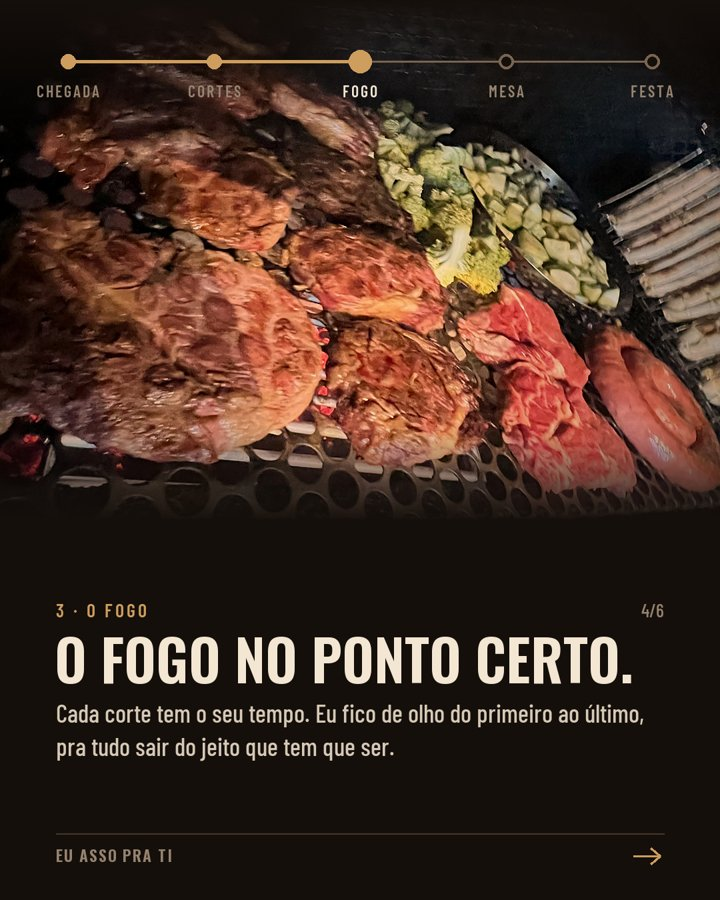
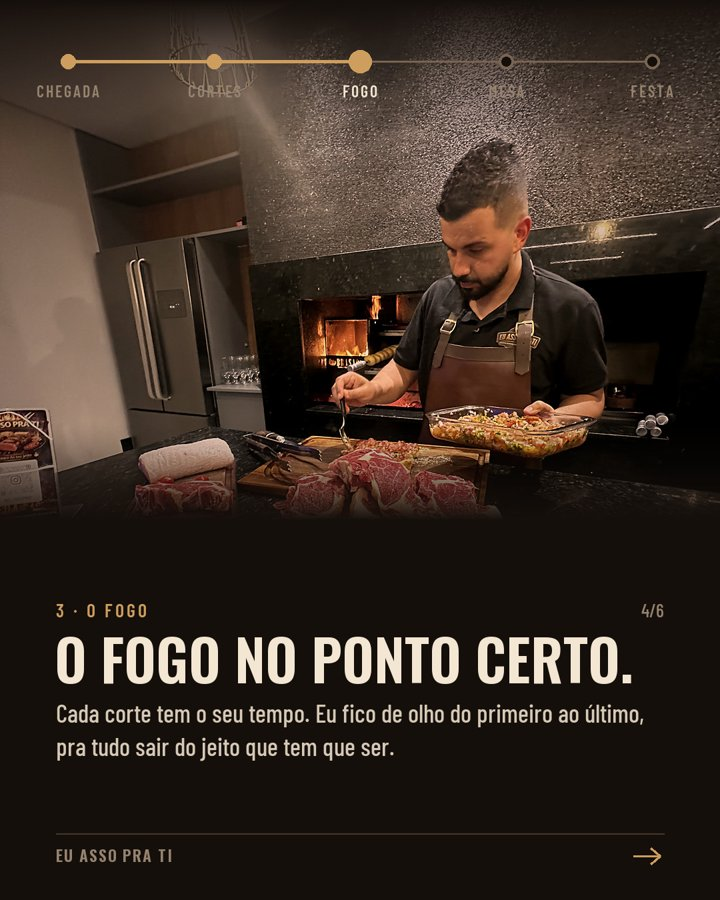
Semana de 3/11: troca da foto do fogo e matambrito no lugar da linguiça

diff --git a/calendario/index.html b/calendario/index.html
@@ -11,7 +11,7 @@
 --display:"Oswald","Arial Narrow",sans-serif;--label:"Barlow Condensed","Arial Narrow",sans-serif;--text:"Barlow",system-ui,sans-serif;color-scheme:dark}
 *{box-sizing:border-box}
 body{margin:0;background:var(--bg);color:var(--body);font:400 1.0625rem/1.6 var(--text)}
-.hero{position:relative;min-height:min(78vh,620px);display:grid;align-items:end;background:#000 url(img/p14-01.jpg?v=1793399696) center 40%/cover}
+.hero{position:relative;min-height:min(78vh,620px);display:grid;align-items:end;background:#000 url(img/p14-01.jpg?v=1793402026) center 40%/cover}
 .hero::after{content:"";position:absolute;inset:0;background:linear-gradient(180deg,rgba(21,15,11,.2) 0%,rgba(21,15,11,.55) 45%,var(--bg) 100%)}
 .hero .in{position:relative;z-index:1;max-width:760px;margin:0 auto;width:100%;padding:0 20px 36px}
 h1,h2{font-family:var(--display);font-weight:600;text-transform:uppercase;color:var(--fg);line-height:1.05;margin:0;text-wrap:balance}
@@ -79,7 +79,7 @@ footer{font:500 .9rem var(--label);color:var(--muted);letter-spacing:.06em;borde
   <ul class="dl">
     <li><b>Até segunda</b><span>Pitacos dos três posts, todos juntos numa mensagem.</span></li>
     <li><b>Post 13</b><span>Teu ok pra usar os comentários dos clientes (são públicos, mas é bom tu conferir se alguém se importaria).</span></li>
-    <li><b>Post 15</b><span>Conferir se os cortes estão com o nome certo nas fotos (ancho, costela e linguiça) e se tu trocaria algum.</span></li>
+    <li><b>Post 15</b><span>Conferir se os cortes estão com o nome certo nas fotos (ancho, costela e matambrito) e se tu trocaria algum.</span></li>
   </ul>
 </section>
 
@@ -88,12 +88,12 @@ footer{font:500 .9rem var(--label);color:var(--muted);letter-spacing:.06em;borde
   <h2>Post 13: quem provou, recomenda</h2>
   <p>Prova social no dia em que os anúncios começam. Os comentários reais da galera, no visual do Instagram: a formatura, o aniversário de 1 ano do último sábado e quem provou o choripan de focaccia. Fecha contigo sorrindo e chamando pro WhatsApp.</p>
   <div class="car" aria-label="Imagens do post 13">
-    <img src="img/p13-01.jpg?v=1793399696" alt="Capa: Quem provou, recomenda" loading="lazy">
-    <img src="img/p13-02.jpg?v=1793399696" alt="Formatura" loading="lazy">
-    <img src="img/p13-03.jpg?v=1793399696" alt="Aniversário de 1 ano" loading="lazy">
-    <img src="img/p13-04.jpg?v=1793399696" alt="A queridinha" loading="lazy">
-    <img src="img/p13-05.jpg?v=1793399696" alt="Sem palavras" loading="lazy">
-    <img src="img/p13-06.jpg?v=1793399696" alt="A próxima pode ser a tua" loading="lazy">
+    <img src="img/p13-01.jpg?v=1793402026" alt="Capa: Quem provou, recomenda" loading="lazy">
+    <img src="img/p13-02.jpg?v=1793402026" alt="Formatura" loading="lazy">
+    <img src="img/p13-03.jpg?v=1793402026" alt="Aniversário de 1 ano" loading="lazy">
+    <img src="img/p13-04.jpg?v=1793402026" alt="A queridinha" loading="lazy">
+    <img src="img/p13-05.jpg?v=1793402026" alt="Sem palavras" loading="lazy">
+    <img src="img/p13-06.jpg?v=1793402026" alt="A próxima pode ser a tua" loading="lazy">
   </div>
   <p class="hint">Arrasta para o lado para ver as 6 imagens.</p>
   <details><summary>Ver a legenda</summary><div class="cap">Quem provou, recomenda 🔥
@@ -118,12 +118,12 @@ Tem festa vindo aí? Me chama no WhatsApp pelo link da bio ou no (51) 99565-7817
   <h2>Post 14: como é o dia da tua festa</h2>
   <p>O passo a passo do dia, com uma linha do tempo no topo de cada card: tu chega antes, os cortes separados e temperados, o fogo, a carne servida quentinha na mesa e o cliente só aproveitando. Responde a dúvida de quem nunca contratou: "vai dar trabalho pra mim?".</p>
   <div class="car" aria-label="Imagens do post 14">
-    <img src="img/p14-01.jpg?v=1793399696" alt="Capa: Como é o dia da tua festa" loading="lazy">
-    <img src="img/p14-02.jpg?v=1793399696" alt="Eu chego antes" loading="lazy">
-    <img src="img/p14-03.jpg?v=1793399696" alt="Separados e temperados na hora" loading="lazy">
-    <img src="img/p14-04.jpg?v=1793399696" alt="O fogo no ponto certo" loading="lazy">
-    <img src="img/p14-05.jpg?v=1793399696" alt="Servido quentinho pra galera" loading="lazy">
-    <img src="img/p14-06.jpg?v=1793399696" alt="Tu só aproveita a festa" loading="lazy">
+    <img src="img/p14-01.jpg?v=1793402026" alt="Capa: Como é o dia da tua festa" loading="lazy">
+    <img src="img/p14-02.jpg?v=1793402026" alt="Eu chego antes" loading="lazy">
+    <img src="img/p14-03.jpg?v=1793402026" alt="Separados e temperados na hora" loading="lazy">
+    <img src="img/p14-04.jpg?v=1793402026" alt="O fogo no ponto certo" loading="lazy">
+    <img src="img/p14-05.jpg?v=1793402026" alt="Servido quentinho pra galera" loading="lazy">
+    <img src="img/p14-06.jpg?v=1793402026" alt="Tu só aproveita a festa" loading="lazy">
   </div>
   <p class="hint">Arrasta para o lado para ver as 6 imagens.</p>
   <details><summary>Ver a legenda</summary><div class="cap">Como é o dia da tua festa com o Eu Asso pra Ti? 🔥
@@ -150,11 +150,11 @@ Me chama no WhatsApp pelo link da bio ou no (51) 99565-7817 e me conta como tu i
   <h2>Post 15: qual corte não pode faltar?</h2>
   <p>Enquete pra galera comentar, no mesmo formato do post do sal, que foi o que mais deu conversa até agora. Três opções com número gigante, e a galera vota comentando 1, 2 ou 3.</p>
   <div class="car" aria-label="Imagens do post 15">
-    <img src="img/p15-01.jpg?v=1793399696" alt="Capa: Qual corte não pode faltar?" loading="lazy">
-    <img src="img/p15-02.jpg?v=1793399696" alt="Ancho" loading="lazy">
-    <img src="img/p15-03.jpg?v=1793399696" alt="Costela" loading="lazy">
-    <img src="img/p15-04.jpg?v=1793399696" alt="Linguiça" loading="lazy">
-    <img src="img/p15-05.jpg?v=1793399696" alt="Conta nos comentários" loading="lazy">
+    <img src="img/p15-01.jpg?v=1793402026" alt="Capa: Qual corte não pode faltar?" loading="lazy">
+    <img src="img/p15-02.jpg?v=1793402026" alt="Ancho" loading="lazy">
+    <img src="img/p15-03.jpg?v=1793402026" alt="Costela" loading="lazy">
+    <img src="img/p15-04.jpg?v=1793402026" alt="Matambrito" loading="lazy">
+    <img src="img/p15-05.jpg?v=1793402026" alt="Comenta o número do teu time" loading="lazy">
   </div>
   <p class="hint">Arrasta para o lado para ver as 5 imagens.</p>
   <details><summary>Ver a legenda</summary><div class="cap">Qual corte não pode faltar na tua festa? 🔥
@@ -163,7 +163,7 @@ Vota aqui nos comentários com o número do teu time:
 
 1⃣ Ancho, macio e bem marmorizado
 2⃣ Costela, soltando do osso
-3⃣ Linguiça, a clássica que acaba primeiro
+3⃣ Matambrito, fininho e suculento, pra quem gosta de provar coisa nova
 
 Ou tem outro corte que tu não abre mão? Quero ver qual time ganha! 👇
 

diff --git a/semana/index.html b/semana/index.html
@@ -11,7 +11,7 @@
 --display:"Oswald","Arial Narrow",sans-serif;--label:"Barlow Condensed","Arial Narrow",sans-serif;--text:"Barlow",system-ui,sans-serif;color-scheme:dark}
 *{box-sizing:border-box}
 body{margin:0;background:var(--bg);color:var(--body);font:400 1.0625rem/1.6 var(--text)}
-.hero{position:relative;min-height:min(78vh,620px);display:grid;align-items:end;background:#000 url(img/p5-02.jpg?v=1793399696) center 40%/cover}
+.hero{position:relative;min-height:min(78vh,620px);display:grid;align-items:end;background:#000 url(img/p5-02.jpg?v=1793402026) center 40%/cover}
 .hero::after{content:"";position:absolute;inset:0;background:linear-gradient(180deg,rgba(21,15,11,.2) 0%,rgba(21,15,11,.55) 45%,var(--bg) 100%)}
 .hero .in{position:relative;z-index:1;max-width:760px;margin:0 auto;width:100%;padding:0 20px 36px}
 h1,h2{font-family:var(--display);font-weight:600;text-transform:uppercase;color:var(--fg);line-height:1.05;margin:0;text-wrap:balance}
@@ -81,13 +81,13 @@ footer{font:500 .9rem var(--label);color:var(--muted);letter-spacing:.06em;borde
   <h2>Post 5: gastronomia de fogo</h2>
   <p>Carrossel de 7 imagens: a carne de qualidade, cada uma no seu ponto, os legumes, o fatiado na hora, a sobremesa no fogo e o convite pra conversar.</p>
   <div class="car" aria-label="Imagens do post 5">
-    <img src="img/p5-01.jpg?v=1793399696" alt="Capa: Gastronomia de fogo" loading="lazy">
-    <img src="img/p5-02.jpg?v=1793399696" alt="Carne de qualidade" loading="lazy">
-    <img src="img/p5-03.jpg?v=1793399696" alt="Cada carne no seu ponto" loading="lazy">
-    <img src="img/p5-04.jpg?v=1793399696" alt="Os legumes também vão pro fogo" loading="lazy">
-    <img src="img/p5-05.jpg?v=1793399696" alt="Fatiado na hora" loading="lazy">
-    <img src="img/p5-06.jpg?v=1793399696" alt="E a sobremesa? No fogo, é claro" loading="lazy">
-    <img src="img/p5-07.jpg?v=1793399696" alt="Tem festa vindo aí?" loading="lazy">
+    <img src="img/p5-01.jpg?v=1793402026" alt="Capa: Gastronomia de fogo" loading="lazy">
+    <img src="img/p5-02.jpg?v=1793402026" alt="Carne de qualidade" loading="lazy">
+    <img src="img/p5-03.jpg?v=1793402026" alt="Cada carne no seu ponto" loading="lazy">
+    <img src="img/p5-04.jpg?v=1793402026" alt="Os legumes também vão pro fogo" loading="lazy">
+    <img src="img/p5-05.jpg?v=1793402026" alt="Fatiado na hora" loading="lazy">
+    <img src="img/p5-06.jpg?v=1793402026" alt="E a sobremesa? No fogo, é claro" loading="lazy">
+    <img src="img/p5-07.jpg?v=1793402026" alt="Tem festa vindo aí?" loading="lazy">
   </div>
   <p class="hint">Arrasta para o lado para ver as 7 imagens.</p>
   <details><summary>Ver a legenda</summary><div class="cap">Gastronomia de fogo 🔥 Eu cuido do fogo, tu aproveita a festa.
@@ -114,12 +114,12 @@ Me chama no WhatsApp pelo link da bio ou no (51) 99565-7817 e me conta como tu i
   <h2>Post 6: a tua festa, do teu jeito</h2>
   <p>Aqui não tem cardápio pronto: aniversário em casa, confraternização, casamento e formatura, cada um com o seu jeito. Fecha com "me conta a tua festa".</p>
   <div class="car" aria-label="Imagens do post 6">
-    <img src="img/p6-01.jpg?v=1793399696" alt="Capa: A tua festa, do teu jeito" loading="lazy">
-    <img src="img/p6-02.jpg?v=1793399696" alt="Pra família e os amigos" loading="lazy">
-    <img src="img/p6-03.jpg?v=1793399696" alt="Pra galera da empresa" loading="lazy">
-    <img src="img/p6-04.jpg?v=1793399696" alt="Pro dia que não volta" loading="lazy">
-    <img src="img/p6-05.jpg?v=1793399696" alt="Nada de cardápio pronto" loading="lazy">
-    <img src="img/p6-06.jpg?v=1793399696" alt="Me conta a tua festa" loading="lazy">
+    <img src="img/p6-01.jpg?v=1793402026" alt="Capa: A tua festa, do teu jeito" loading="lazy">
+    <img src="img/p6-02.jpg?v=1793402026" alt="Pra família e os amigos" loading="lazy">
+    <img src="img/p6-03.jpg?v=1793402026" alt="Pra galera da empresa" loading="lazy">
+    <img src="img/p6-04.jpg?v=1793402026" alt="Pro dia que não volta" loading="lazy">
+    <img src="img/p6-05.jpg?v=1793402026" alt="Nada de cardápio pronto" loading="lazy">
+    <img src="img/p6-06.jpg?v=1793402026" alt="Me conta a tua festa" loading="lazy">
   </div>
   <p class="hint">Arrasta para o lado para ver as 6 imagens.</p>
   <details><summary>Ver a legenda</summary><div class="cap">A tua festa, do teu jeito 🔥
@@ -144,7 +144,7 @@ Me chama no WhatsApp pelo link da bio ou no (51) 99565-7817 e me conta a tua fes
 <section>
   <div class="post-head"><p class="k" style="margin:0">Terça 13/10</p><span class="tag done">No ar</span></div>
   <h2>Post 4: o primeiro Reels</h2>
-  <video class="vid" src="video/p4-reels.mp4?v=1793399696" controls playsinline preload="metadata"></video>
+  <video class="vid" src="video/p4-reels.mp4?v=1793402026" controls playsinline preload="metadata"></video>
   <details><summary>Ver a legenda</summary><div class="cap">Quando tu chega, o fogo já tá pronto 🔥
 
 Eu chego bem antes pra preparar tudo: a carne de qualidade separada pra tua festa, o fogo no ponto certinho e tudo saindo da brasa direto pra tábua, servido quentinho pra galera.
